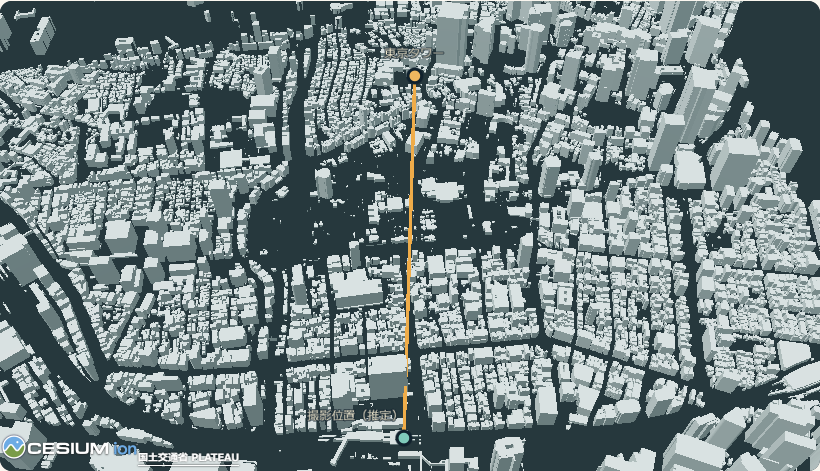
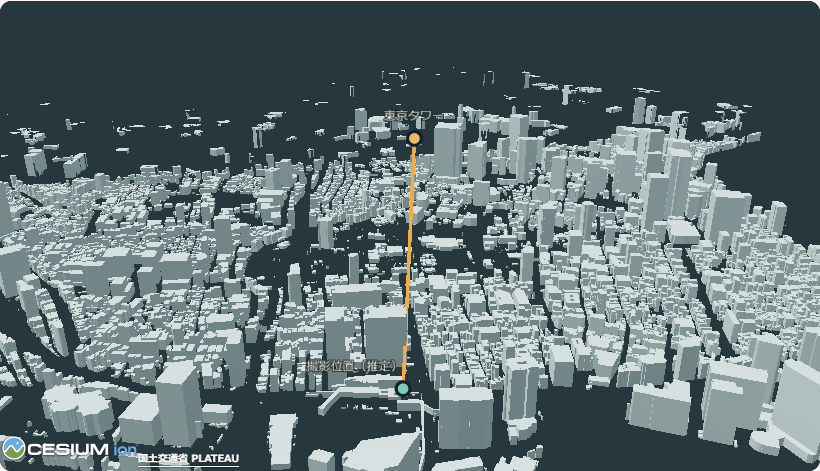
Lower the camera angle in the Tokyo model preview

diff --git a/spots/tokyo-tower.html b/spots/tokyo-tower.html
@@ -252,7 +252,7 @@
  <div class="tokyo-sightline-scenes" role="group" aria-label="景色を選ぶ"><button type="button" class="btn btn-ghost" data-tokyo-scene="0" aria-pressed="true"><span>東京タワー</span></button><button type="button" class="btn btn-ghost" data-tokyo-scene="1" aria-pressed="false"><span>レインボーブリッジ</span></button><button type="button" class="btn btn-ghost" data-tokyo-scene="2" aria-pressed="false"><span>東京駅</span></button><button type="button" class="btn btn-ghost" data-tokyo-scene="3" aria-pressed="false"><span>虎ノ門ヒルズ森タワー</span></button><button type="button" class="btn btn-ghost" data-tokyo-scene="4" aria-pressed="false"><span>高輪ツインタワー</span></button><button type="button" class="btn btn-ghost" data-tokyo-scene="5" aria-pressed="false"><span>MoN Takanawa</span></button><button type="button" class="btn btn-ghost" data-tokyo-scene="6" aria-pressed="false"><span>汐留シティセンター</span></button></div>
  <div id="tokyo-sightline-model" class="tokyo-sightline-viewport" data-tokyo-state="preview">
  <div class="tokyo-sightline-stage" data-tokyo-stage tabindex="-1" role="group" aria-label="撮影位置と景色をつなぐ3D模型" aria-describedby="tokyo-sightline-help" aria-hidden="true"></div>
- <div class="tokyo-sightline-preview" data-tokyo-preview><img data-tokyo-preview-image src="../images/tokyo-sightline-tower-preview.png?v=d7ca66fd" alt="東京タワーと推定撮影位置を金色の線でつないだ街の模型" loading="lazy" width="820" height="470"><span class="tokyo-sightline-preview-label">東京タワーの模型プレビュー</span></div>
+ <div class="tokyo-sightline-preview" data-tokyo-preview><img data-tokyo-preview-image src="../images/tokyo-sightline-tower-preview.png?v=282c67a6" alt="東京タワーと推定撮影位置を金色の線でつないだ街の模型" loading="lazy" width="820" height="470"><span class="tokyo-sightline-preview-label">東京タワーの模型プレビュー</span></div>
  <button class="btn btn-primary tokyo-sightline-open" type="button" data-tokyo-open aria-expanded="false" aria-controls="tokyo-sightline-model" aria-describedby="tokyo-sightline-traffic">3Dで位置を見る</button>
  <figure class="tokyo-sightline-photo" data-tokyo-photo-overlay><button class="tokyo-sightline-photo-toggle" type="button" data-tokyo-photo-toggle aria-expanded="false" aria-label="車窓写真を拡大"><img data-tokyo-photo src="../images/20261010_tokyo-tower_155558_michikusa.jpg" alt="車窓のビルの間に見える赤い東京タワー" loading="lazy" width="1920" height="1080"><span data-tokyo-photo-action>写真を拡大</span></button><figcaption><span data-tokyo-caption>2026年10月10日・E席側／撮影：道草</span></figcaption></figure>
  </div>
